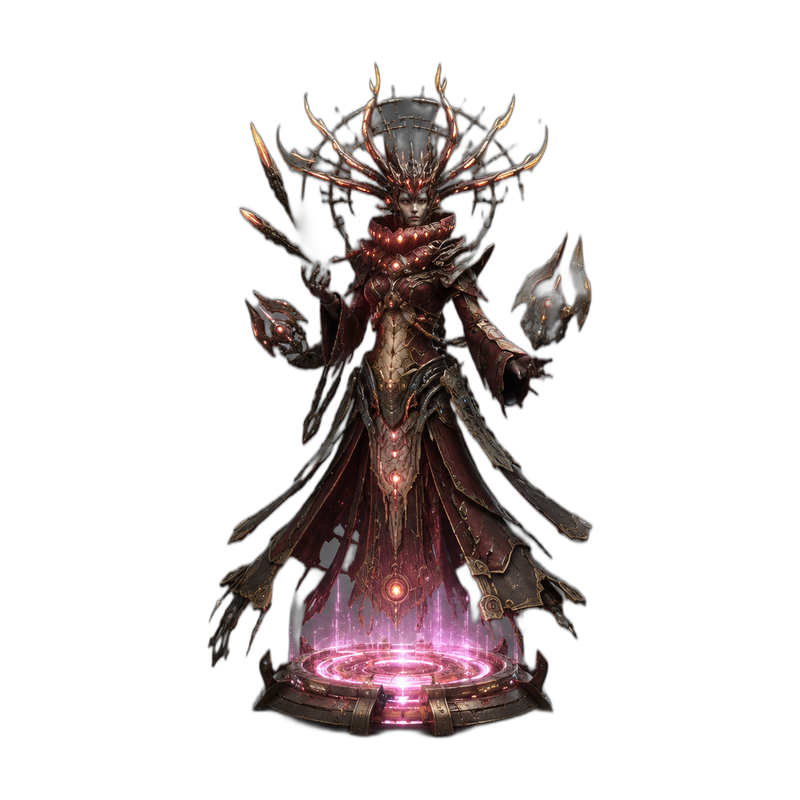
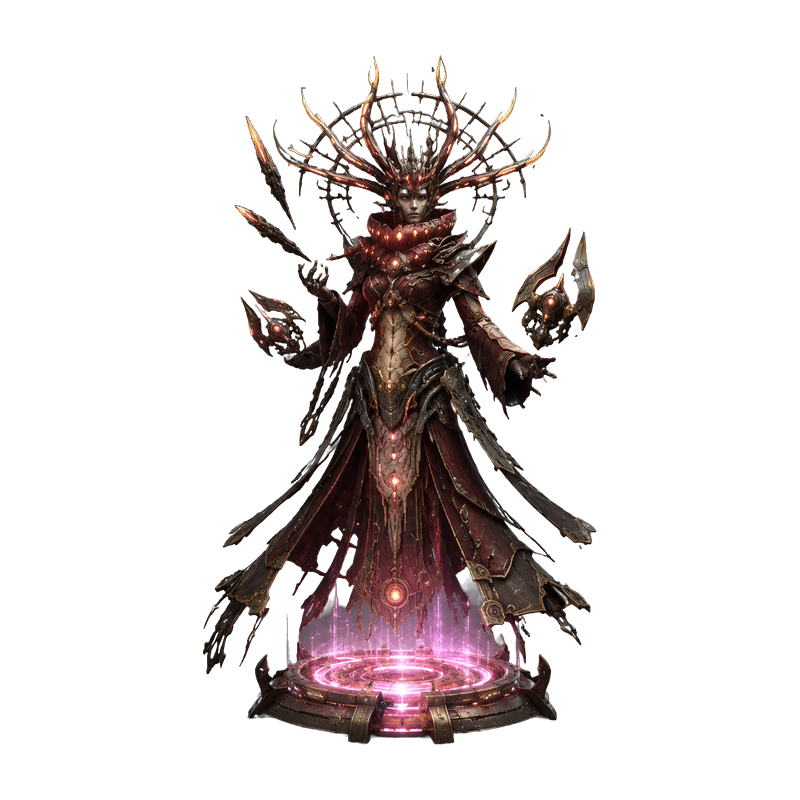
deploy: 2026-07-10 15:26 Co-Authored-By: Antigravity <noreply@google.com>

Changed region(s): [[0.25, 0.0625, 0.75, 0.9375]]

diff --git a/src/components/AscensionSpiritShopModal.jsx b/src/components/AscensionSpiritShopModal.jsx
@@ -114,7 +114,7 @@ export default function AscensionSpiritShopModal({ player, raceData }) {
                         width: 320,
                         height: 320,
                         objectFit: 'contain',
-                        filter: `drop-shadow(0 0 15px ${activeSlot === 'seraphys' ? 'rgba(68, 255, 136, 0.4)' : 'rgba(255, 68, 68, 0.4)'}) drop-shadow(0 0 3px ${activeSlot === 'seraphys' ? '#44ff88' : '#ff4444'})`
+                        filter: `drop-shadow(0 0 10px ${activeSlot === 'seraphys' ? 'rgba(68, 255, 136, 0.22)' : 'rgba(255, 68, 68, 0.22)'}) drop-shadow(0 0 2px ${activeSlot === 'seraphys' ? 'rgba(68, 255, 136, 0.45)' : 'rgba(255, 68, 68, 0.45)'})`
                       }}
                     />
                   </div>

diff --git a/src/screens/Ascension.jsx b/src/screens/Ascension.jsx
@@ -205,7 +205,7 @@ export default function Ascension() {
                                   width: 320,
                                   height: 320,
                                   objectFit: 'contain',
-                                  filter: `drop-shadow(0 0 15px ${isSeraphys ? 'rgba(68, 255, 136, 0.4)' : 'rgba(255, 68, 68, 0.4)'}) drop-shadow(0 0 3px ${isSeraphys ? '#44ff88' : '#ff4444'})`
+                                  filter: `drop-shadow(0 0 10px ${isSeraphys ? 'rgba(68, 255, 136, 0.22)' : 'rgba(255, 68, 68, 0.22)'}) drop-shadow(0 0 2px ${isSeraphys ? 'rgba(68, 255, 136, 0.45)' : 'rgba(255, 68, 68, 0.45)'})`
                                 }}
                               />
                             </div>
